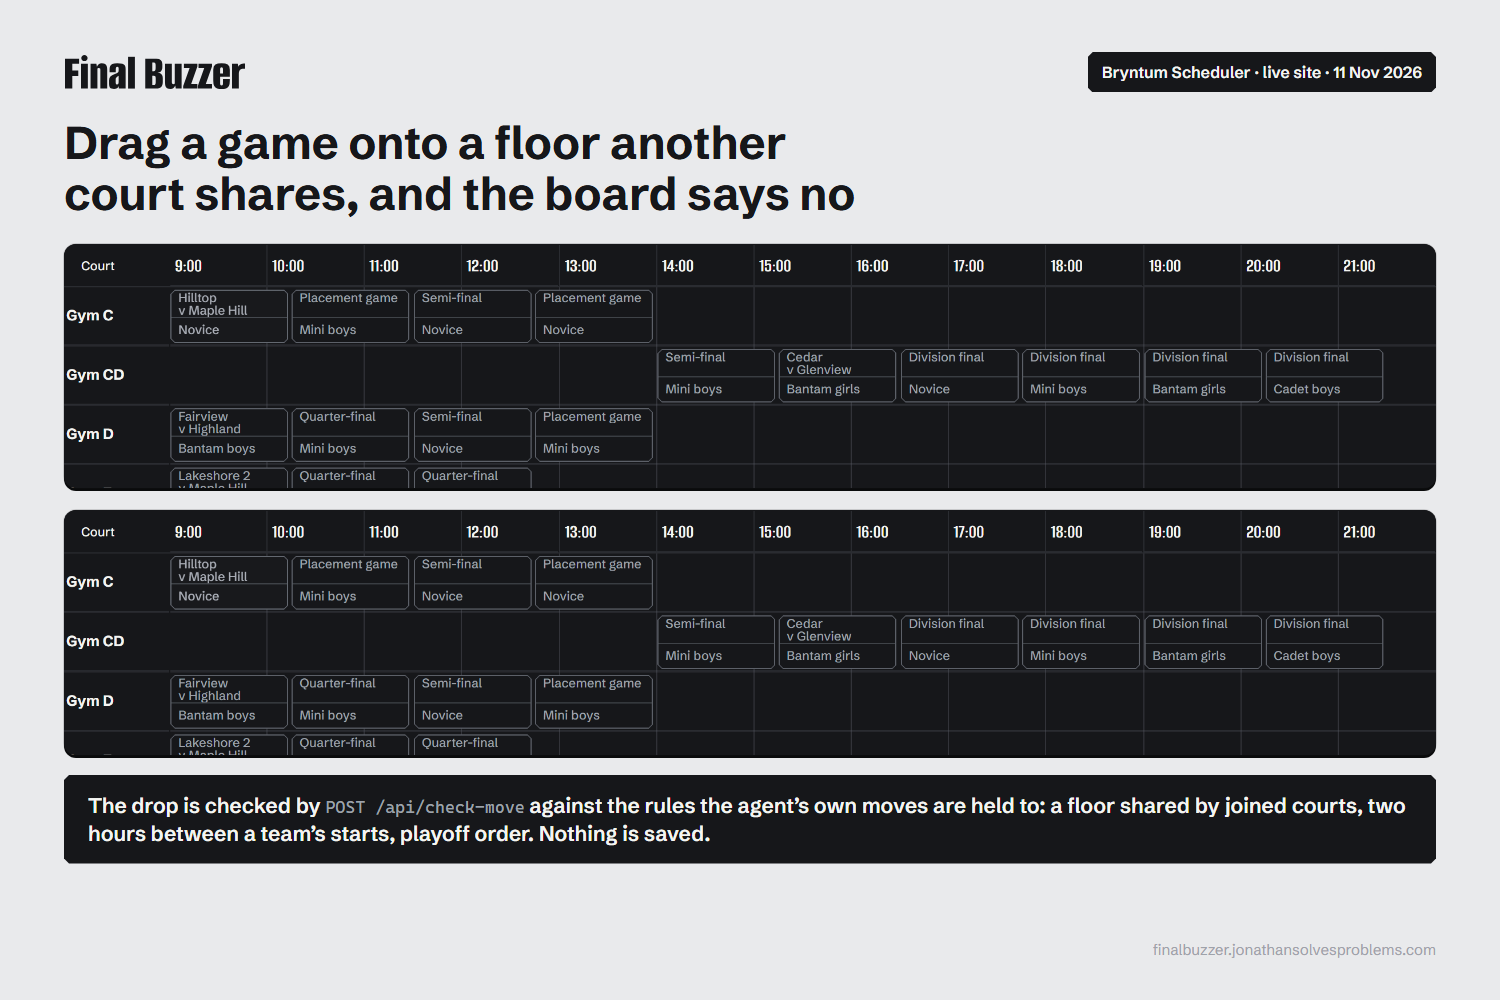
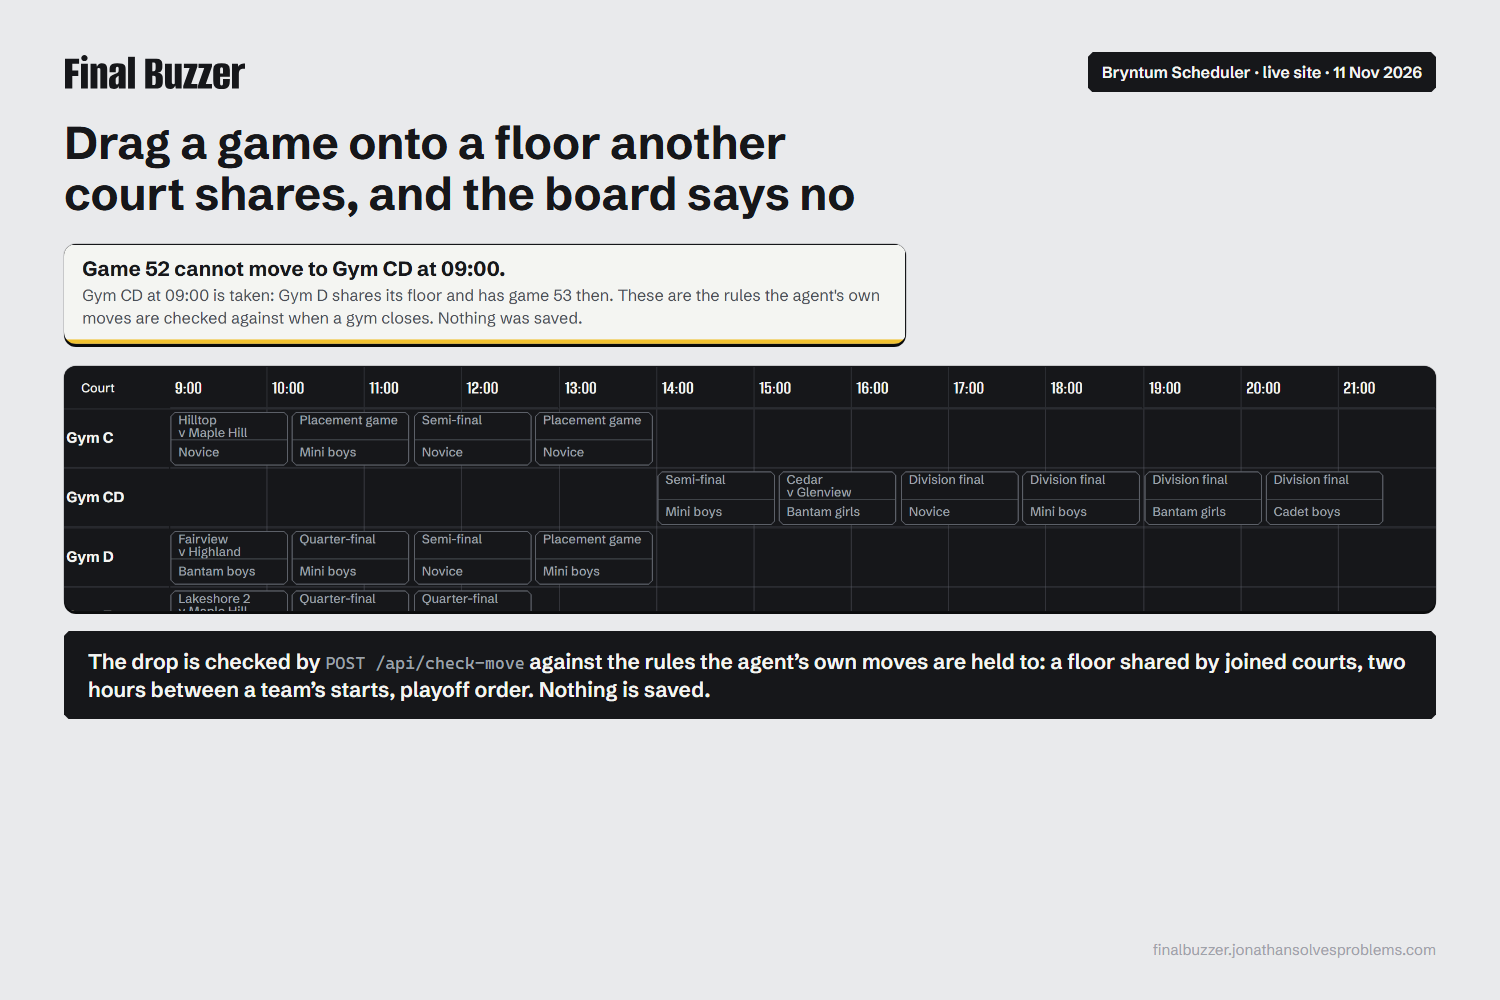
Gallery: the drag check slide from the live board

Changed region(s): [[0.0307, 0.217, 0.9813, 0.868]]

diff --git a/devpost/slides/slides.py b/devpost/slides/slides.py
@@ -244,7 +244,7 @@ PHONES = (
 
 
 RULES = (
-    '<div class="shot fixed" style="height:auto"><img src="{IMAGE}" alt="" style="height:auto"></div>'
+    '<div class="shot fixed" style="height:auto;width:842px"><img src="{IMAGE}" alt="" style="height:auto"></div>'
     '<div class="shot fixed" style="height:auto;margin-top:22px"><img src="{IMAGE_2}" alt="" style="height:auto"></div>'
     '<div class="band" style="text-align:left">The drop is checked by <code>POST /api/check-move</code> against the rules the agent&rsquo;s own moves are held to: a floor shared by joined courts, two hours between a team&rsquo;s starts, playoff order. Nothing is saved.</div>'
 )
@@ -328,8 +328,8 @@ def build():
         {
             "id": "rules", "badge": "Bryntum Scheduler · live site · 11 Nov 2026",
             "headline": "Drag a game onto a floor another court shares, and the board says no",
-            "html": RULES, "image": "tmp/shots/slide-rules.png", "crop": [40, 245, 1200, 58],
-            "image_2": "tmp/shots/slide-rules.png", "crop_2": [40, 441, 1200, 214],
+            "html": RULES, "image": "tmp/shots/slide-rules.png", "crop": [40, 172, 737, 88],
+            "image_2": "tmp/shots/slide-rules-grid.png", "crop_2": [40, 398, 1200, 214],
             "caption": "The board is a Bryntum Scheduler: courts are the resources, the four days the time axis, each game an event drawn as a flip-scoreboard tile. Drag a game that has not started and the drop is checked against the rules the agent's own re-plan moves are held to. Here game 52 is dropped on Gym CD at 9:00, which shares its floor with Gym D, where game 53 is playing. The board answers in a sentence and nothing is saved, because moving a game is Sam's call.",
         },
     ]
